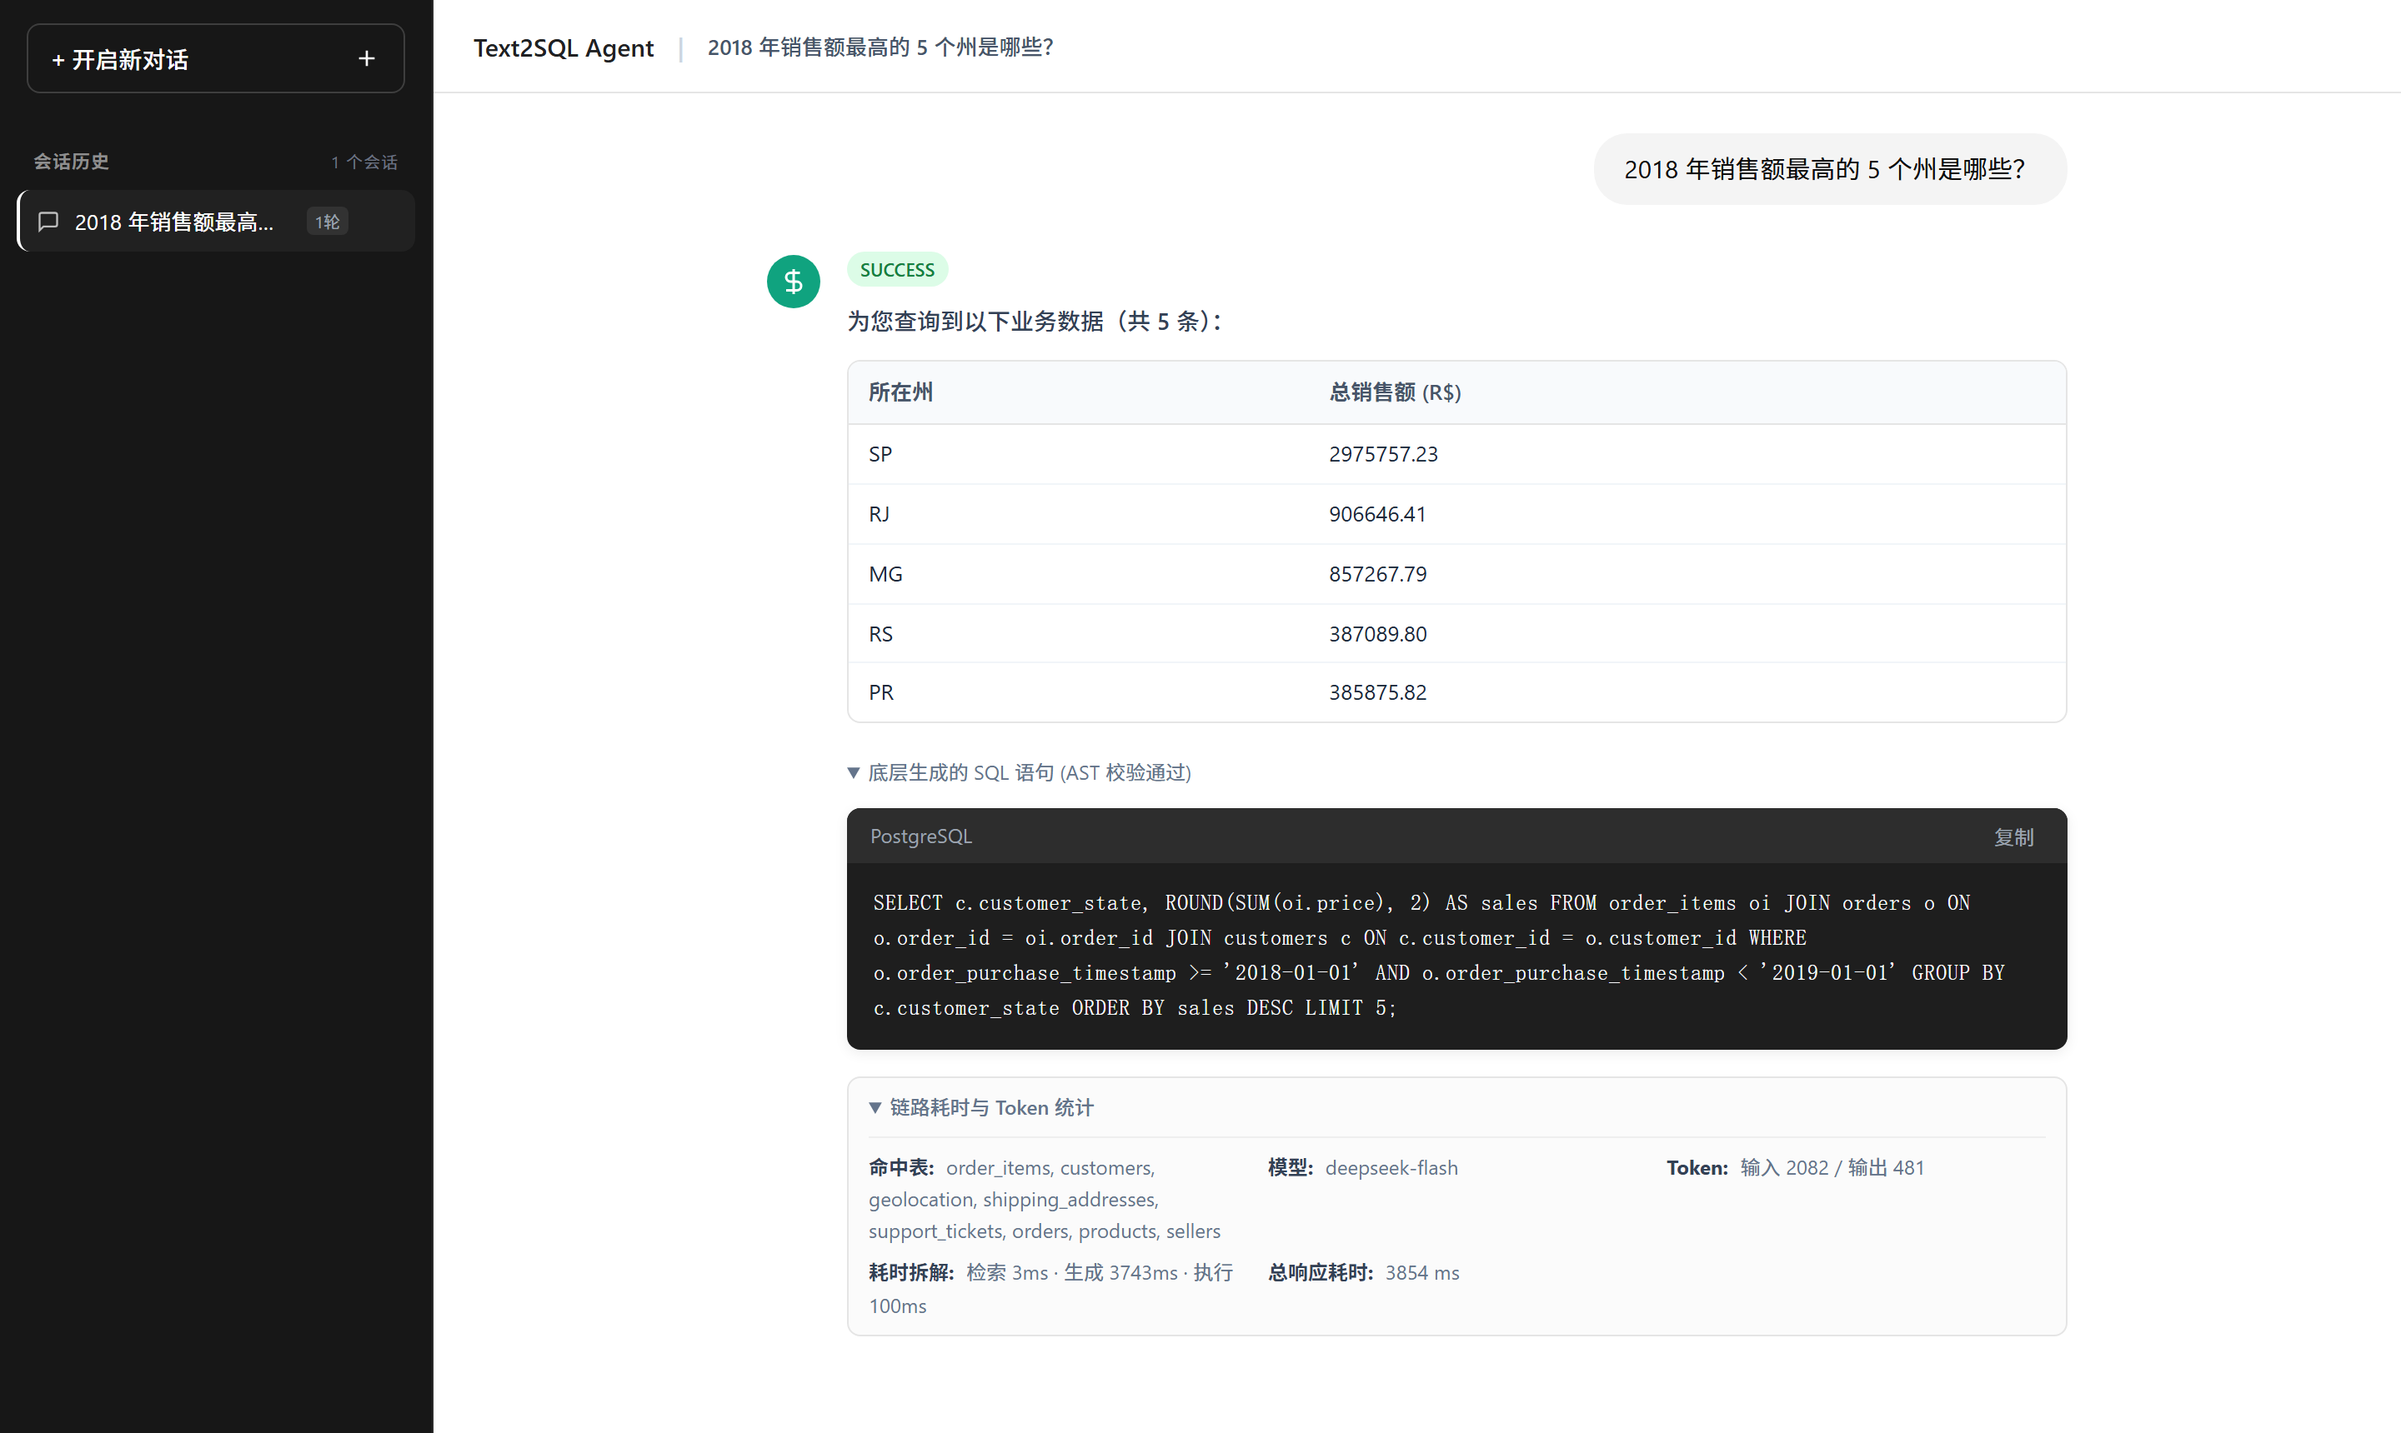
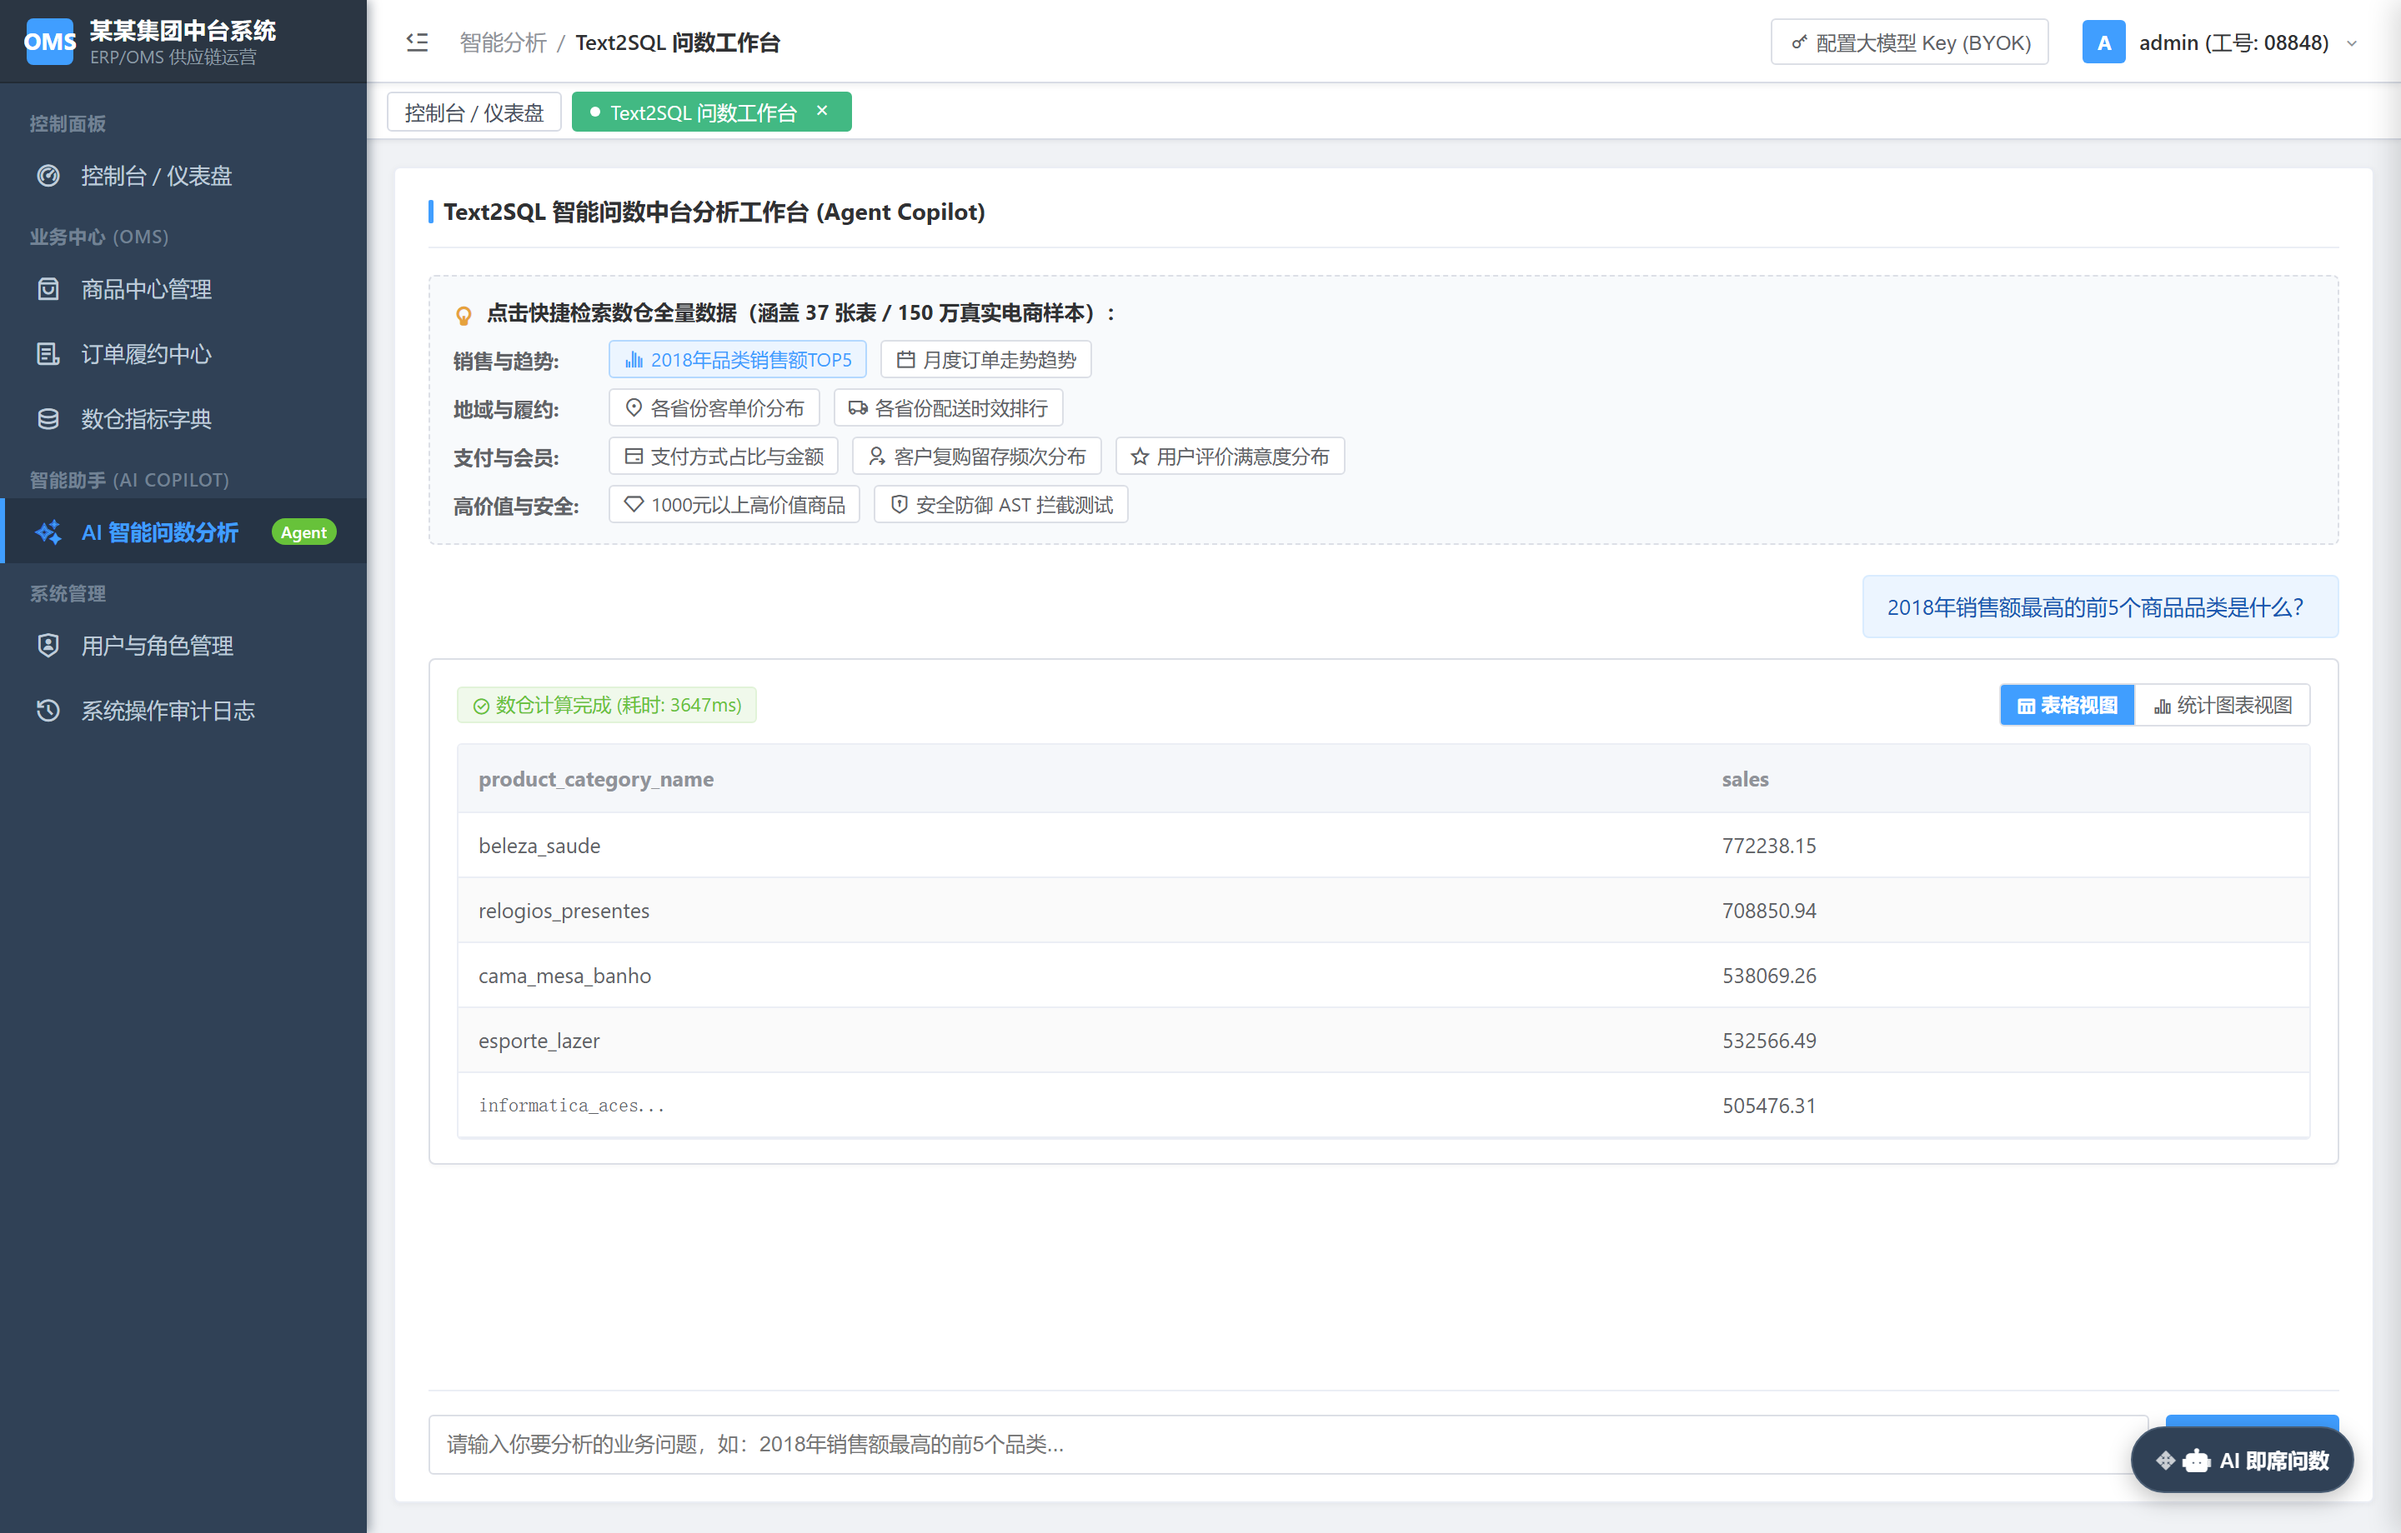
docs: 更新 README 实机问数效果截图并同步最新 290 项测试基线

diff --git a/README.md b/README.md
@@ -8,13 +8,13 @@
 ![PostgreSQL](https://img.shields.io/badge/PostgreSQL-16-4169E1)
 ![License](https://img.shields.io/badge/License-MIT-green)
 
-**96.00% 执行准确率 (96/100)** · **99.00% 表全召回** · **279 项测试** · **53/53 对抗回归** · **P95 12.81s（未达标）**
+**96.00% 执行准确率 (96/100)** · **99.00% 表全召回** · **290 项测试** · **53/53 对抗回归** · **P95 12.81s（未达标）**
 
 [快速开始](#快速开始) · [基准结果](#基准结果) · [评测方法](#评测方法) · [已知局限](#已知局限) · [设计文档](#设计文档)
 
 ![Demo](docs/assets/ui-ask.png)
 
-*示例：2018 年销售额 Top 5 州；SQL 通过 AST 校验，底部是检索表、模型和 token/耗时分解。*
+*实机运行：嵌入电商供应链中台的 Text2SQL 智能分析工作台（以 2018 年品类销售额 TOP 5 问数为例），展示 AST 安全校验、数仓耗时与多维数据渲染。*
 
 ## 这是什么 / 不是什么
 
